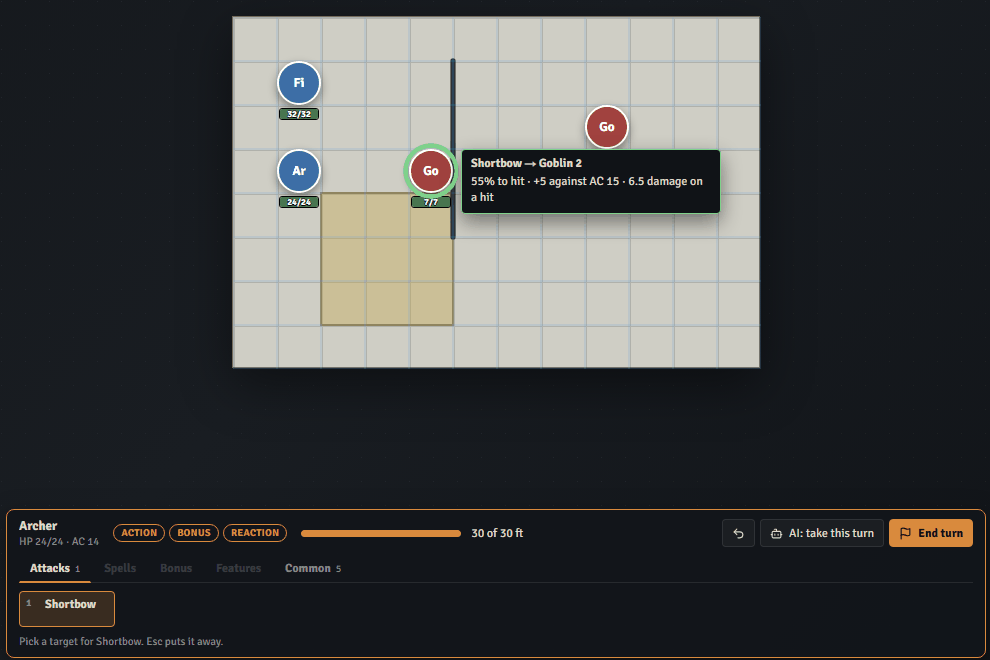
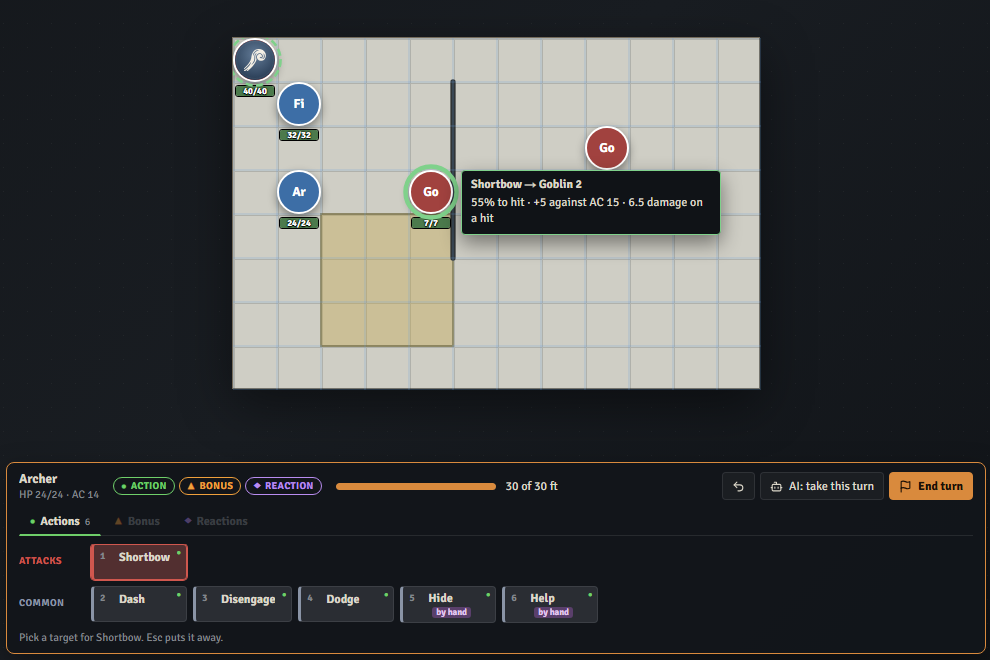
Hotbar redesign Phase 5: docs and tidy
The Docs page and the play guide describe the new hotbar (tabs by cost,
groups and colours, attacking a swing at a time), with the guide's
screenshots 02-04 retaken. PLAY_MODE_PLAN.md points to the redesign.
Removes the hotbar's dead routine hint and sort, and colours a spell by
its element over physical damage (Ice Storm reads cold).

diff --git a/src/components/docs/DocsPage.tsx b/src/components/docs/DocsPage.tsx
@@ -871,10 +871,11 @@ const SECTIONS: Section[] = [
           for the bonus action, and the action still attacks.
         </p>
         <p>
-          In Play, the hotbar&apos;s <strong>Items</strong> tab has a button for each item with how many are left: a
-          potion&apos;s <em>Drink</em> is used at once, and <em>Give</em> is aimed at an ally within 5 ft, one who&apos;s
-          down included. With full healing for an action, the button also has <em>Drink · full 10</em> and{" "}
-          <em>Give · full 10</em>, each taking the action. A potion whose benefit lasts 10 minutes or more (Heroism) can be drunk before the fight:
+          In Play, each item has a button in the hotbar&apos;s <strong>Items</strong> group, with how many are left, on
+          the tab of what it takes: a potion&apos;s <em>Drink</em> is used at once, and <em>Give</em> is aimed at an ally
+          within 5 ft, one who&apos;s down included. When drinking takes a bonus action and giving an action, the potion
+          has a button on each tab (<em>Potion of Healing: Drink</em> under Bonus, <em>…: Give</em> under Actions). With
+          full healing for an action, the Actions button has <em>Drink · full 10</em> and <em>Give · full 10</em>. A potion whose benefit lasts 10 minutes or more (Heroism) can be drunk before the fight:
           it&apos;s listed with the spells cast before it, in the Combat panel and on the Token tab, and ticking it spends
           one.
         </p>
@@ -1048,9 +1049,13 @@ const SECTIONS: Section[] = [
         <ul>
           <li>
             <strong>The hotbar</strong>, at the bottom of the map, shows what's left of the turn and everything the
-            creature can use, by tab: Attacks, Spells (with the slots left), Bonus, Features, Items (for a creature
-            that carries any: how many are left, and a potion's Drink and Give), Common (Dash, Disengage, Dodge…) and
-            Reactions. A button greyed out says why. Keys 1–0 press the tab's first ten.
+            creature can use, by what it takes: <strong>Actions</strong> (free ones too, like Action Surge),{" "}
+            <strong>Bonus</strong> and <strong>Reactions</strong>. Inside a tab the buttons are grouped by what they
+            are: Attacks, Spells (with the slots left), Features, Items and Common (Dash, Disengage, Dodge…). Each is
+            coloured by what it is: attacks red, features gold, items teal, common actions grey, and a spell by its
+            element (fire orange, radiant pale gold, healing green, or its school&apos;s colour when it deals no damage).
+            A corner mark says what it takes: a green ● for an action, an orange ▲ for a bonus action, a hollow ◇ for
+            free. A button greyed out says why. Keys 1–0 press the tab's first ten.
           </li>
           <li>
             <strong>Moving</strong>: the squares it can still reach are tinted; over a square, the route, its cost,
@@ -1067,8 +1072,15 @@ const SECTIONS: Section[] = [
             <strong>Variants</strong> sit under their ability: the slot to cast at, Power Attack, spend a charge.
           </li>
           <li>
-            <strong>A multiattack</strong> takes its first target, then asks for each swing: which attack, which
-            creature, or a square to step to first.
+            <strong>Attacking</strong>: there's no Extra Attack or Multiattack button. Press a weapon (or a claw, a
+            bite): the first swing takes the Attack action or the Multiattack, and the swings left stay on the weapon
+            buttons for the rest of the turn (<em>⚔ 1 left</em>, and <em>Attack · 1 left</em> on the Action pill).
+            Move, use a bonus action or drink a potion between them; Undo takes back one swing. A routine&apos;s rules
+            hold: an owlbear&apos;s second claws is greyed out, a tyrannosaurus&apos;s tail won&apos;t go at the
+            bite&apos;s target, a grick&apos;s beak follows only a tentacle hit. Frightful Presence or Breath Weapon in
+            place of an attack is a swing too. A routine that costs more than its action (Flurry of Blows) has a button
+            of its own, and its second strike rides the strike&apos;s button. Swings left unused when the turn ends are
+            skipped.
           </li>
           <li>
             <strong>By hand</strong>: an ability the simulator doesn't run takes its slot and its cost and is logged;

diff --git a/src/lib/play/hotbar.ts b/src/lib/play/hotbar.ts
@@ -237,7 +237,9 @@ function toneOf(action: ActionDefinition, group: HotbarGroup, spell?: SpellOf): 
   if (group !== "spells") return group;
   if (action.kind === "healing") return "healing";
   const damage = "damage" in action && Array.isArray(action.damage) ? action.damage : [];
-  const dealt = damage.map((component) => damageTone(component.damageType)).find(Boolean)
+  const tones = damage.map((component) => damageTone(component.damageType)).filter((tone): tone is HotbarTone => Boolean(tone));
+  // An element over plain force of arms: Ice Storm's hail is bludgeoning, but it's a cold spell.
+  const dealt = tones.find((tone) => tone !== "physical") ?? tones[0]
     ?? (action.kind === "area-save" ? damageTone(action.zone?.movementDamage?.damageType) : undefined);
   if (dealt) return dealt;
   const school = (action.spellSchool ?? spell?.school)?.toLowerCase();
@@ -570,15 +572,14 @@ export function hotbarFor(board: EncounterSnapshot, actorId: Id): HotbarModel {
     });
   }
 
-  // Spells by level, cantrips first; a multiattack heads the attacks, as in a statblock; the rest as the creature has them.
-  const routine = (button: HotbarButton) => (button.variants[0]!.aim.kind === "routine" ? 0 : 1);
+  // Spells by level, cantrips first; the rest as the creature has them.
   const tabs = HOTBAR_TABS.map(({ id, label }) => {
     const groups = HOTBAR_GROUPS.map((group) => ({
       ...group,
       buttons: buttons
         .filter((button) => button.tab === id && button.group === group.id)
         .map((button, index) => ({ button, index }))
-        .sort((a, b) => (group.id === "spells" ? (a.button.spellLevel ?? 0) - (b.button.spellLevel ?? 0) : routine(a.button) - routine(b.button)) || a.index - b.index)
+        .sort((a, b) => (group.id === "spells" ? (a.button.spellLevel ?? 0) - (b.button.spellLevel ?? 0) : 0) || a.index - b.index)
         .map(({ button }) => button)
     })).filter((group) => group.buttons.length > 0);
     return { id, label, groups, buttons: groups.flatMap((group) => group.buttons) };

diff --git a/src/components/play/Hotbar.tsx b/src/components/play/Hotbar.tsx
@@ -405,11 +405,9 @@ function HotbarHint({ model, armedButton, armed, aim, note, preview, board, wayp
     const variant = armedButton?.variants.find((candidate) => candidate.actionId === armed.actionId);
     const many = armed.aim.kind === "creatures" && armed.aim.count > 1;
     const routine = armedButton?.routine;
-    const lead = armed.aim.kind === "routine"
-      ? `Pick the first target for ${name}: you pick each swing after it.`
-      : many
-        ? `Pick up to ${armed.aim.kind === "creatures" ? armed.aim.count : 1} ${armed.aim.kind === "creatures" && armed.aim.repeat ? "targets (one can be picked again)" : "creatures"} for ${name}${armed.picked.length ? `: ${armed.picked.length} picked, Enter to use it on them` : ""}.`
-        : `Pick a target for ${name}${variant && variant.label !== "Normal" && armedButton && armedButton.variants.length > 1 ? ` (${variant.label})` : ""}${swingOf(routine, armedButton)}.`;
+    const lead = many
+      ? `Pick up to ${armed.aim.kind === "creatures" ? armed.aim.count : 1} ${armed.aim.kind === "creatures" && armed.aim.repeat ? "targets (one can be picked again)" : "creatures"} for ${name}${armed.picked.length ? `: ${armed.picked.length} picked, Enter to use it on them` : ""}.`
+      : `Pick a target for ${name}${variant && variant.label !== "Normal" && armedButton && armedButton.variants.length > 1 ? ` (${variant.label})` : ""}${swingOf(routine, armedButton)}.`;
     const concentration = armedButton?.concentration && model.concentration ? ` It ends your concentration on ${model.concentration}.` : "";
     return (
       <p className={styles.dockHint} data-warning={Boolean(concentration)}>

diff --git a/tests/play-hotbar-tones.test.ts b/tests/play-hotbar-tones.test.ts
@@ -6,7 +6,7 @@ import { HOTBAR_TONES, hotbarFor, type HotbarModel } from "@/lib/play/hotbar";
 
 /** HOTBAR_REDESIGN_PLAN.md §2: the colour each hotbar button takes, and a style for every one. */
 
-const SPELLS = ["fire-bolt", "fireball", "hold-person", "cure-wounds", "spiritual-weapon", "moonbeam", "mage-armor", "spike-growth"];
+const SPELLS = ["fire-bolt", "fireball", "hold-person", "cure-wounds", "spiritual-weapon", "moonbeam", "mage-armor", "spike-growth", "ice-storm"];
 
 /** The sample fighter with these spells, a wand of web, a healing potion, and the slots and charges to use them. */
 function board(): EncounterSnapshot {
@@ -22,7 +22,7 @@ function board(): EncounterSnapshot {
     automationSupport: "full"
   };
   fighter.items = [withItemPool(structuredClone(findSrdItem("srd:item:wand-of-web")!) as ItemDefinition, "wand"), potion];
-  const resources = { "slot-1": 4, "slot-2": 3, "slot-3": 2, "item:potions": 2, "item:wand": 7 };
+  const resources = { "slot-1": 4, "slot-2": 3, "slot-3": 2, "slot-4": 1, "item:potions": 2, "item:wand": 7 };
   fighter.resources = { ...fighter.resources, ...resources };
   const token = encounter.combatants.find((combatant) => combatant.id === "pc-fighter")!;
   token.resources = { ...token.resources, ...resources };
@@ -40,6 +40,8 @@ describe("a hotbar button's colour", () => {
       Moonbeam: "radiant",
       "Spiritual Weapon": "force",
       "Spike Growth": "physical",
+      // Bludgeoning hail and cold: the element, not the hail.
+      "Ice Storm": "cold",
       "Cure Wounds": "healing",
       "Hold Person": "enchantment",
       "Mage Armor": "abjuration",

diff --git a/docs/guides/play-a-fight-by-hand.md b/docs/guides/play-a-fight-by-hand.md
@@ -27,26 +27,28 @@ Click **Start**. Initiative is rolled if it hasn't been, and the board as it is 
 
 On your creature's turn the **hotbar** sits at the bottom of the map, and the squares it can still reach are tinted. Point at a square: the route the engine would take appears, with what it costs.
 
-![A route, its cost, and an opportunity attack on the way](img/play-a-fight-by-hand/02-moving.png)
+![A route, its cost, and the opportunity attacks on the way](img/play-a-fight-by-hand/02-moving.png)
 
 - **Click** to move there. **Shift-click** to plan a stop on the way, to go round something; **Esc** or right-click takes the last stop back.
 - A red ring and a weapon's name mark each creature that would get an **opportunity attack**, and the line under the hotbar says so.
-- **Dash** and **Disengage** are on the **Common** tab: the movement doubles, or the opportunity attacks go away.
+- **Dash** and **Disengage** are on the **Actions** tab, in its **Common** group: the movement doubles, or the opportunity attacks go away.
 - You can also drag the token. Dropped somewhere it can't reach, it stays put and says why.
 
 ## 3. Attack
 
-Press a weapon on the **Attacks** tab, or its number key. Its range is tinted and each creature it can hit gets a ring. Point at one to see your chances.
+The hotbar's tabs are what each thing takes: **Actions**, **Bonus** and **Reactions**. Press a weapon in the **Attacks** group of the Actions tab, or its number key. Its range is tinted and each creature it can hit gets a ring. Point at one to see your chances.
 
 ![Aiming the shortbow: the chance to hit, the AC and the damage](img/play-a-fight-by-hand/03-aiming.png)
 
 Click the creature to attack. A greyed-out button says why it can't be used ("Fighter has already used its action"); a creature it can't reach says so too ("Line of effect is blocked").
 
+> **Extra Attack and Multiattack:** a creature that attacks more than once has no button for it. Its first weapon attack takes the action, and the attacks it has left stay on its weapon buttons (**⚔ 1 left**) for the rest of the turn. Move, use a bonus action, then press a weapon again for the next one. The Action pill reads **Attack · 1 left** until they're used.
+
 ## 4. Cast an area spell
 
-Give a creature spells to try this: the SRD **Mage** in the Actors tab's monster library has plenty. On the **Spells** tab, the slots left are shown as pips, and the level to cast at sits under each spell.
+Give a creature spells to try this: the SRD **Mage** in the Actors tab's monster library has plenty. Its spells are in the **Spells** group, an action's on the Actions tab and a bonus action's (Misty Step) on Bonus, each coloured by its element. The slots left are shown as pips, and the level to cast at sits under each spell.
 
-![Fireball following the cursor, with the goblin it catches](img/play-a-fight-by-hand/04-area.png)
+![Fireball following the cursor: who it catches, each with the chance to fail the save](img/play-a-fight-by-hand/04-area.png)
 
 The template follows the cursor. Foes it catches are ringed with their chance to fail the save; a friend it would catch is ringed in yellow, and the hotbar warns you. Click to cast.
 

diff --git a/HOTBAR_REDESIGN_PLAN.md b/HOTBAR_REDESIGN_PLAN.md
@@ -1,7 +1,7 @@
 # Hotbar Redesign Plan: what you can do, by what it costs
 
-**Status:** planned 2026-10-07. Phases 1–2 built on branch `hotbar-redesign` (see "Built so far" at the end); Phases
-3–5 not started. D1–D3 are the user's decisions (2026-10-07). D4–D12 are defaults derived from them; reverse any of
+**Status:** complete 2026-10-07: Phases 1–5 built on branch `hotbar-redesign`, one commit each (see "Built so far" at
+the end). D1–D3 are the user's decisions (2026-10-07). D4–D12 are defaults derived from them; reverse any of
 them before building.
 
 Play's hotbar (PLAY_MODE_PLAN.md §2.2) should work more like Baldur's Gate 3's. The user asked for three things:
@@ -485,3 +485,17 @@ Differences from the plan:
   charge".
 - **No "Skip this swing" on the hotbar:** a swing left unused is skipped when the turn ends. The swing card stays for
   legendary and lair actions that are routines (D11).
+
+### Phase 5 — Docs and tidy (2026-10-07)
+
+- The Docs page's Play section covers the tabs, groups, colours and marks, and attacking a swing at a time. Its Items
+  note describes the per-slot potion buttons.
+- `docs/guides/play-a-fight-by-hand.md` steps 2–4 now name the Actions tab and its groups, with a note on Extra Attack
+  and Multiattack. Screenshots 02–04 were retaken in the Sandbox with the new hotbar.
+  - An SRD Mage can only be added as an enemy, so the Fireball shot catches the party, and its caption says so.
+- PLAY_MODE_PLAN.md §2.2 and §2.4 now point here.
+- Removed the hotbar's "routine" hint and its multiattack-first sort. `aimForAction` and `aimAtCreature` keep the
+  routine aim for legendary picks.
+- A spell's colour prefers an element over bludgeoning, piercing or slashing (Ice Storm is cold, not physical). It was
+  spotted in the guide's Mage shot.
+- Full suite: 272 files, 3,067 tests.

diff --git a/PLAY_MODE_PLAN.md b/PLAY_MODE_PLAN.md
@@ -179,6 +179,10 @@ the log.
 
 ### 2.2 Your turn
 
+> **Superseded in part (2026-10-07):** the hotbar's tabs, colours and attacks were redesigned in
+> HOTBAR_REDESIGN_PLAN.md. The tabs are Actions · Bonus · Reactions, grouped inside by what a thing is, and there's no
+> Multiattack button: a creature's weapons are its swings.
+
 - **A turn bar** runs across the top of the map: portraits in initiative order, the current one raised, You/AI
   badges, HP bars, and the lair slot at 20. Click a portrait to select that creature.
 - At the start of your creature's turn, the map pans to it and selects it. **The hotbar** appears at the bottom of the
@@ -215,6 +219,10 @@ the log.
 - **Other tokens** can only be dragged with Alt, as a logged DM move.
 
 ### 2.4 Aiming
+
+> **Superseded in part (2026-10-07):** a creature's own multiattack is made a swing at a time from its weapon buttons
+> (HOTBAR_REDESIGN_PLAN.md §3), not through the swing card. The card is still used for legendary and lair actions that
+> are routines.
 
 Arming an ability draws its range around the creature and marks who it can target. Hovering one it can't target says
 why: "beyond 60 ft.", "line of effect is blocked", "inside another creature".
